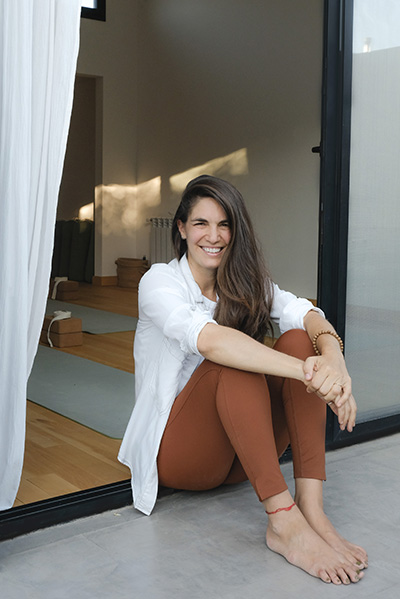
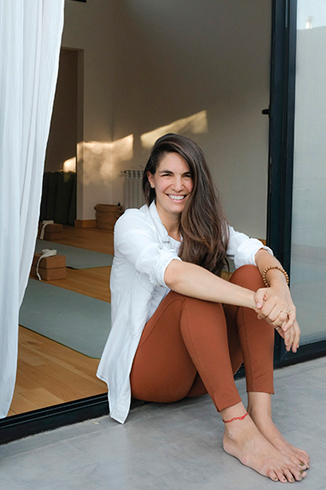
optimize images and a bit of a clean up

diff --git a/index.html b/index.html
@@ -185,11 +185,16 @@
 
         .spaced-grid img {
             width: 45%;
+            box-shadow: 0px 2px 4px 0px rgba(0, 0, 0, 0.3);
         }
 
         .main-card {
             position: relative;
             text-align: center;
+        }
+        .main-card img {
+            width:100%;
+            margin-bottom: 1rem;
         }
 
         .centered-on-card {
@@ -214,6 +219,12 @@
             font-weight: 100;
             font-style: normal;
             text-align: center;
+        }
+
+        .card img { 
+            width:100%;
+            margin-bottom: 1rem;
+            box-shadow: 0px 2px 4px 0px rgba(0, 0, 0, 0.3);
         }
 
         .card a {
@@ -458,19 +469,19 @@
             <div class="grid">
                 <div class="card main-card">
                     <a href="#yoga-integral">
-                        <img src="img/yoga-integral.jpg" alt="Yoga Integral" style="width:100%; margin-bottom: 1rem;">
+                        <img src="img/yoga-integral.jpg" alt="Yoga Integral" >
                         <div class="centered-on-card">yoga integral</div>
                     </a>
                 </div>
                 <div class="card main-card">
                     <a href="#yoga-nidra">
-                        <img src="img/yoga-nidra.jpg" alt="Yoga Nidra" style="width:100%; margin-bottom: 1rem;">
+                        <img src="img/yoga-nidra.jpg" alt="Yoga Nidra" >
                         <div class="centered-on-card">yoga nidra</div>
                     </a>
                 </div>
                 <div class="card main-card">
                     <a href="#yoga-embarazo">
-                        <img src="img/yoga-embarazo.jpg" alt="Yoga & Embarazo" style="width:100%; margin-bottom: 1rem;">
+                        <img src="img/yoga-embarazo.jpg" alt="Yoga & Embarazo">
                         <div class="centered-on-card">yoga & embarazo</div>
                     </a>
                 </div>
@@ -498,6 +509,10 @@
     <section class="content-section" id="yoga-nidra">
         <div class="container">
             <h2 class="section-title">yoga nidra</h2>
+            <div class="spaced-grid">
+                <img src="img/yoga-nidra-1.jpg" >
+                <img src="img/yoga-nidra-2.jpg" >
+            </div>
             <div class="section-content">
                 <p>Es una técnica de relajación y meditación profunda, conocida como el  “sueño yóguico”, ya que nos guía hacia un estado de conciencia entre la vigilia y el sueño.</p>
                 <p>Durante la práctica, el cuerpo permanece completamente relajado, mientras la mente se mantiene alerta y consciente.</p>
@@ -512,6 +527,10 @@
     <section class="content-section" id="yoga-embarazo">
         <div class="container">
             <h2 class="section-title">yoga & embarazo</h2>
+            <div class="spaced-grid">
+                <img src="img/yoga-embarazada-1.jpg" >
+                <img src="img/yoga-embarazada-2.jpg" >
+            </div>
             <div class="section-content">
                 <p>A medida que el yoga te conecta con tu cuerpo y tu mente, también despierta la conciencia del ser que habita en tu interior, profundizando ese lazo esencial haciéndolo más profundo.</p>
                 <p>Desde lo físico, se trabaja en la apertura de caderas, el suelo pélvico, las piernas y la espalda, acompañando los cambios propios del embarazo con suavidad y presencia.</p>
@@ -550,7 +569,7 @@
             <h2 class="section-title">espacio</h2>
             <div class="grid">
                 <div class="card">
-                    <img src="img/espacio.jpg" style="width:100%; margin-bottom: 1rem;">
+                    <img src="img/espacio.jpg">
                 </div>
             </div>
             <div class="section-content">
